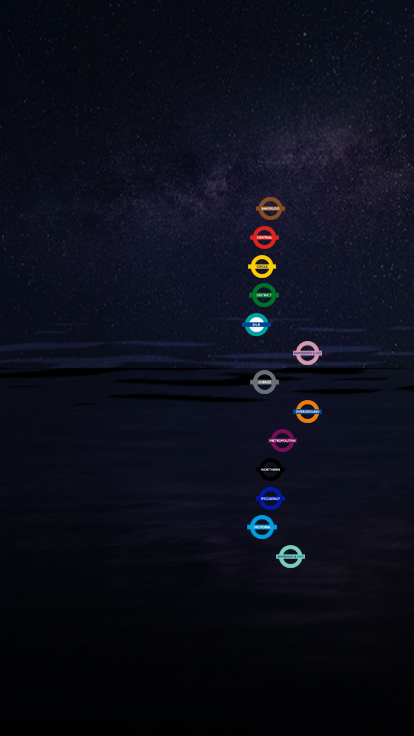
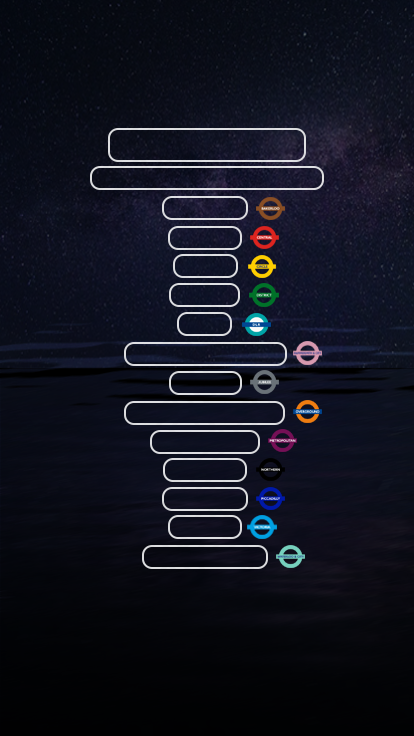
Add files via upload

diff --git a/index.js b/index.js
@@ -426,7 +426,7 @@ toggle_func(){
 								{this.state.tfl}
 							</div>
 							<div class={style.footer}>
-							<button onclick={this.toggle_func}>Settings</button>
+							<button onclick={this.toggle_func}><span>Settings</span></button>
 							</div>
 						</div>);
 
@@ -459,7 +459,7 @@ toggle_func(){
 							{this.state.tfl_Options}
 							</form>
 							<div class={style.footer}>
-							<button onclick={this.toggle_func}>Back</button>
+							<button onclick={this.toggle_func}><span>Back</span></button>
 							</div>
 						</div>);
 

diff --git a/style.less b/style.less
@@ -48,6 +48,21 @@
 	margin: 0 auto;
 }
 
+button {
+  background-image: url('../../assets/misc/Settings_button.png');
+  background-repeat: no-repeat;
+  background-color: Transparent;
+  //background-position: 50% 50%;
+  height: 32px;
+  width: 77px;
+  border: none;
+}
+
+button span {
+  //display: none;
+  color: white;
+}
+
 .header {
 	display: flex;
 	flex-direction: column;
